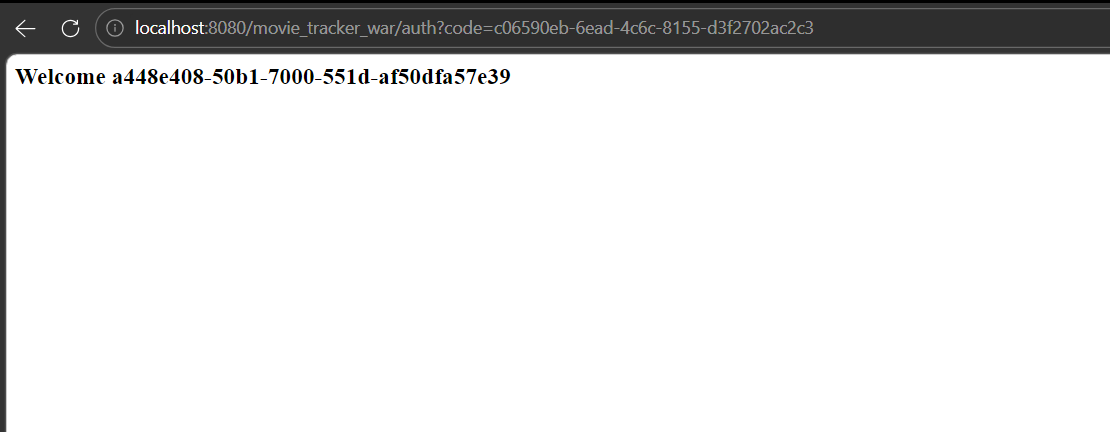
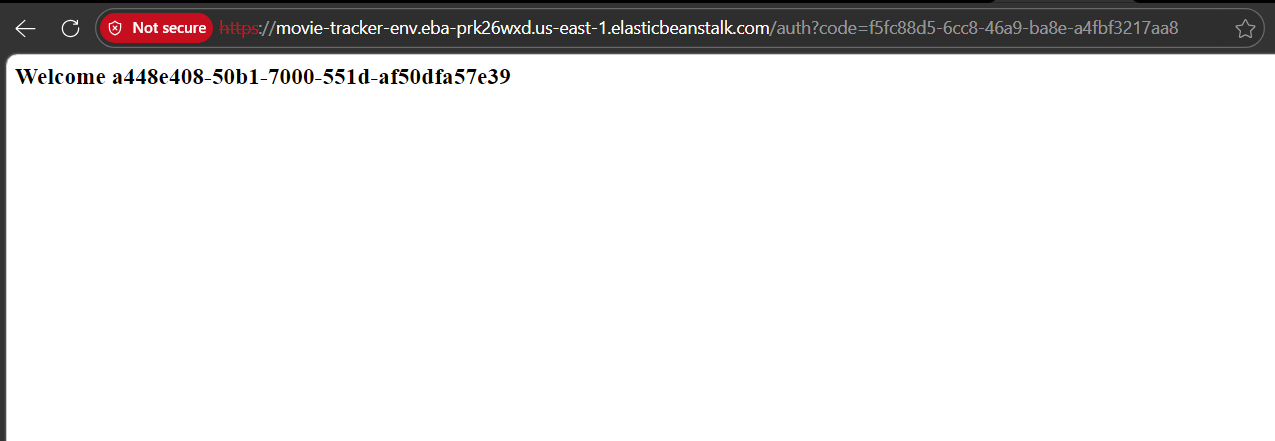
Updated project plan and time log with completed tasks

Changed region(s): [[0.0, 0.0, 1.0, 0.2106]]

diff --git a/TimeLog.md b/TimeLog.md
@@ -1,23 +1,26 @@
 `# Time Log
 
-| Date    | Task                                                                                                                                                              | Hours | Notes|
-|---------|-------------------------------------------------------------------------------------------------------------------------------------------------------------------|-------|----|
-| 1/28/26 | Set up project repository                                                                                                                                         | 1     | |
-| 2/12/26 | Added : Problem statement, user stories, project plan, screen design                                                                                              | 4     | |
-| 2/15/26 | Implement User DAO and User entity with Hibernate. Added some of the tests. Set up test DB.                                                                       | 5     | |
-| 2/17/26 | Implemented Media DAO. Added more tests.                                                                                                                          | 5     | |
-| 2/18/26 | Implemented Recommendation DAO and tests. Reviewed database. Reviewed javadoc.                                                                                    | 3     | |
-| 2/18/26 | Worked on item in checkpoint 1 feedback. Reviewed project plan.                                                                                                   | 1     | |
-| 2/19/26 | Watched weekly course videos                                                                                                                                      | 1     | |
-| 2/20/26 | Refactored Source and Recommendation entities to replace IDs with relationships. Updated DAOs, tests, and User entity to support associations.                    | 4     | |
-| 2/20/26 | Watched weekly course videos for comapring with Equals method                                                                                                     | 1     | |
+| Date    | Task                                                                                                                                                               | Hours | Notes|
+|---------|--------------------------------------------------------------------------------------------------------------------------------------------------------------------|-------|----|
+| 1/28/26 | Set up project repository                                                                                                                                          | 1     | |
+| 2/12/26 | Added : Problem statement, user stories, project plan, screen design                                                                                               | 4     | |
+| 2/15/26 | Implement User DAO and User entity with Hibernate. Added some of the tests. Set up test DB.                                                                        | 5     | |
+| 2/17/26 | Implemented Media DAO. Added more tests.                                                                                                                           | 5     | |
+| 2/18/26 | Implemented Recommendation DAO and tests. Reviewed database. Reviewed javadoc.                                                                                     | 3     | |
+| 2/18/26 | Worked on item in checkpoint 1 feedback. Reviewed project plan.                                                                                                    | 1     | |
+| 2/19/26 | Watched weekly course videos                                                                                                                                       | 1     | |
+| 2/20/26 | Refactored Source and Recommendation entities to replace IDs with relationships. Updated DAOs, tests, and User entity to support associations.                     | 4     | |
+| 2/20/26 | Watched weekly course videos for comapring with Equals method                                                                                                      | 1     | |
 | 2/21/26 | Added equals and hashCode methods to Media, Source, and Recommendation entities. Improved RecommendationDao tests with enhanced assertions and updated test logic. | 3     |    |
-| 2/21/26 | Updated User entity with helper methods and equality checks. Added tests for cascading recommendation insertions.                                                 | 2     |    |
-| 2/21/26 | Implemented RecommendationServlet for displaying user recommendations. Added new JSP and integrated Jersey dependencies into the pom. Deployed the app.           | 4     ||
-| 2/21/26 | Refactored DAO test setup to avoid redundant instantiation. Added test for cascading recommendation deletions on user removal.                                    | 3     |    |
-| 2/22/26 | Updated tests and schema to reflect new user and recommendation constraints. Updated database references and test data.                                           | 3     | |
-| 2/22/26 | Watched weekly course videos for Generic Dao                                                                                                                      | 1     | |
-| 2/23/26 | Implemented GenericDao. Refactored RecommendationDao tests to use GenericDao.                                                                                     | 3     | |
-| 2/23/26 | Refactored all associated tests to use GenericDao. Removed MediaDao, RecommendationDao, SourceDao, and UserDao.                                                   | 2     | |
-| 2/27/26 | Watched week 6 videos.                                                                                                                                            | 1     | |
-| 2/27/26 | Deployed project to AWS Elastic Beanstalk instance                                                                                                           | 2     | |
+| 2/21/26 | Updated User entity with helper methods and equality checks. Added tests for cascading recommendation insertions.                                                  | 2     |    |
+| 2/21/26 | Implemented RecommendationServlet for displaying user recommendations. Added new JSP and integrated Jersey dependencies into the pom. Deployed the app.            | 4     ||
+| 2/21/26 | Refactored DAO test setup to avoid redundant instantiation. Added test for cascading recommendation deletions on user removal.                                     | 3     |    |
+| 2/22/26 | Updated tests and schema to reflect new user and recommendation constraints. Updated database references and test data.                                            | 3     | |
+| 2/22/26 | Watched weekly course videos for Generic Dao                                                                                                                       | 1     | |
+| 2/23/26 | Implemented GenericDao. Refactored RecommendationDao tests to use GenericDao.                                                                                      | 3     | |
+| 2/23/26 | Refactored all associated tests to use GenericDao. Removed MediaDao, RecommendationDao, SourceDao, and UserDao.                                                    | 2     | |
+| 2/27/26 | Watched week 6 videos.                                                                                                                                             | 1     | |
+| 2/27/26 | Deployed project to AWS Elastic Beanstalk instance                                                                                                                 | 2     | |
+| 2/28/26 | Watched week 7 videos.                                                                                                                                             | 1     | |
+| 3/1/26  | Implemented Cognito. Configured Certificate, deployed app to AWS fully                                                                                             | 4     | |
+

diff --git a/projectPlan.md b/projectPlan.md
@@ -45,64 +45,63 @@
 ## Week 5 (2/16) — Hibernate
 *Class: Hibernate*
 
-- [ ] Research TMDB API — register for API key and test endpoints
-- [ ] Add Project Lombok annotations (`@Data`, `@NoArgsConstructor`, `@AllArgsConstructor`) **OPTIONAL**
+- [X] Research TMDB API — register for API key and test endpoints
 
-- [ ] Create `GenericDao<T>` with `getAll()`, `getById()`, `insert()`, `update()`, `delete()`
-- [ ] Create `RecommendationDao` extending `GenericDao` (add `toggleWatched()`)
-- [ ] Create `SourceDao` extending `GenericDao`
-- [ ] Create `MediaDao` extending `GenericDao`
-- [ ] Create `UserDao` extending `GenericDao` (add `getByCognitoId()`)
-- [ ] Set up JUnit 5 for testing
-- [ ] Create test database configuration
-- [ ] Write unit tests for all DAOs (70%+ coverage)
-  - [ ] Create test data in `@BeforeEach`
-  - [ ] Test CRUD operations
-  - [ ] Test custom queries
-  - [ ] Test cascade behaviors
-  - [ ] Clean up test data in `@AfterEach`
-- [ ] Add comprehensive Log4J2 logging to all DAO methods
-- [ ] Ensure all database access uses Hibernate (no raw JDBC)
-- [ ] Complete Week 5 Exercise
-- [ ] Weekly reflection/time log
+- [X] Create `GenericDao<T>` with `getAll()`, `getById()`, `insert()`, `update()`, `delete()`
+- [X] Create `RecommendationDao` extending `GenericDao` (add `toggleWatched()`)
+- [X] Create `SourceDao` extending `GenericDao`
+- [X] Create `MediaDao` extending `GenericDao`
+- [X] Create `UserDao` extending `GenericDao` (add `getByCognitoId()`)
+- [X] Set up JUnit 5 for testing
+- [X] Create test database configuration
+- [X] Write unit tests for all DAOs (70%+ coverage)
+  - [X] Create test data in `@BeforeEach`
+  - [X] Test CRUD operations
+  - [X] Test custom queries
+  - [X] Test cascade behaviors
+- [X] Add comprehensive Log4J2 logging to all DAO methods
+- [X] Ensure all database access uses Hibernate (no raw JDBC)
+- [X] Complete Week 5 Exercise
+- [X] Weekly reflection/time log
 
 ---
 
 ## Week 6 (2/23) — AWS Deployment & Project Reviews
 *Class: Deployment to AWS, Individual Project Reviews*
 
-- [ ] Research AWS Elastic Beanstalk deployment options
-- [ ] Create production `hibernate.cfg.xml` (use env vars for credentials)
+- [X] Research AWS Elastic Beanstalk deployment options
+- [X] Create production `hibernate.cfg.xml` (use env vars for credentials)
 - [ ] Update all documentation for peer review
-- [ ] Ensure ERD is clear and complete
-- [ ] Verify all 10 MVP user stories documented
+- [X] Ensure ERD is clear and complete
+- [X] Verify all 11 MVP user stories documented
 - [ ] Clean up GitHub repository
 - [ ] **Participate in Peer Design Review session**
 - [ ] Document feedback received from peer review
-- [ ] Complete Week 6 Exercise
-- [ ] Weekly reflection/time log
+- [X] Complete Week 6 Exercise
+- [X] Weekly reflection/time log
 
 ---
 
 ## Week 7 (3/2) — Security and Authentication
 *Class: Security, Authentication | **CHECKPOINT 2 DUE 3/4***
 
-- [ ] Double-check all Checkpoint 2 requirements
-  - [ ] Database schema created (MySQL locally)
-  - [ ] At least one DAO with full CRUD
-  - [ ] DAO fully unit tested
-  - [ ] Log4J2 configured and used throughout
-  - [ ] No `System.out.println` anywhere
-- [ ] Set up AWS Cognito User Pool (configure pool, password policy, sign-in, app client)
-- [ ] Add AWS SDK for Java dependency to `pom.xml`
+- [X] Double-check all Checkpoint 2 requirements
+  - [X] Database schema created (MySQL locally)
+  - [X] At least one DAO with full CRUD
+  - [X] DAO fully unit tested
+  - [X] Log4J2 configured and used throughout
+  - [X] No `System.out.println` anywhere
+- [X] Set up AWS Cognito User Pool (configure pool, password policy, sign-in,
+  app client)
+- [X] Add AWS SDK for Java dependency to `pom.xml`
 - [ ] Create `CognitoUtil` helper class (`authenticateUser`, `registerUser`, `getUser`)
 - [ ] Create `AuthenticationFilter` (implements `Filter`)
 - [ ] Map filter in `web.xml` to protect all pages except login
 - [ ] Create session management utilities
-- [ ] Test authentication flow locally with Cognito
-- [ ] Add logging for all authentication events
+- [X] Test authentication flow locally with Cognito
+- [X] Add logging for all authentication events
 - [ ] **Submit Checkpoint 2 by 3/4**
-- [ ] Complete Week 7 Exercise
+- [X] Complete Week 7 Exercise
 - [ ] Weekly reflection/time log
 
 ---
@@ -123,6 +122,7 @@
 - [ ] Complete Week 8 Exercise
 - [ ] Weekly reflection/time log
 
+- [ ] Add Project Lombok annotations (`@Data`, `@NoArgsConstructor`, `@AllArgsConstructor`) **OPTIONAL**
 ---
 
 ## Week 9 (3/23) — RESTful Web Services
